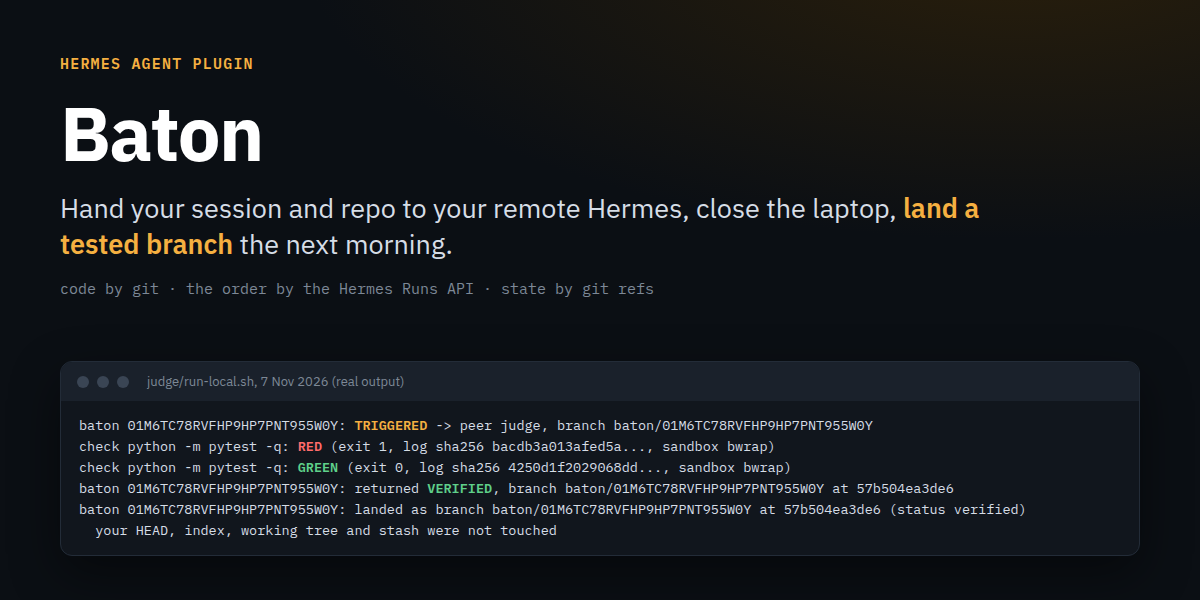
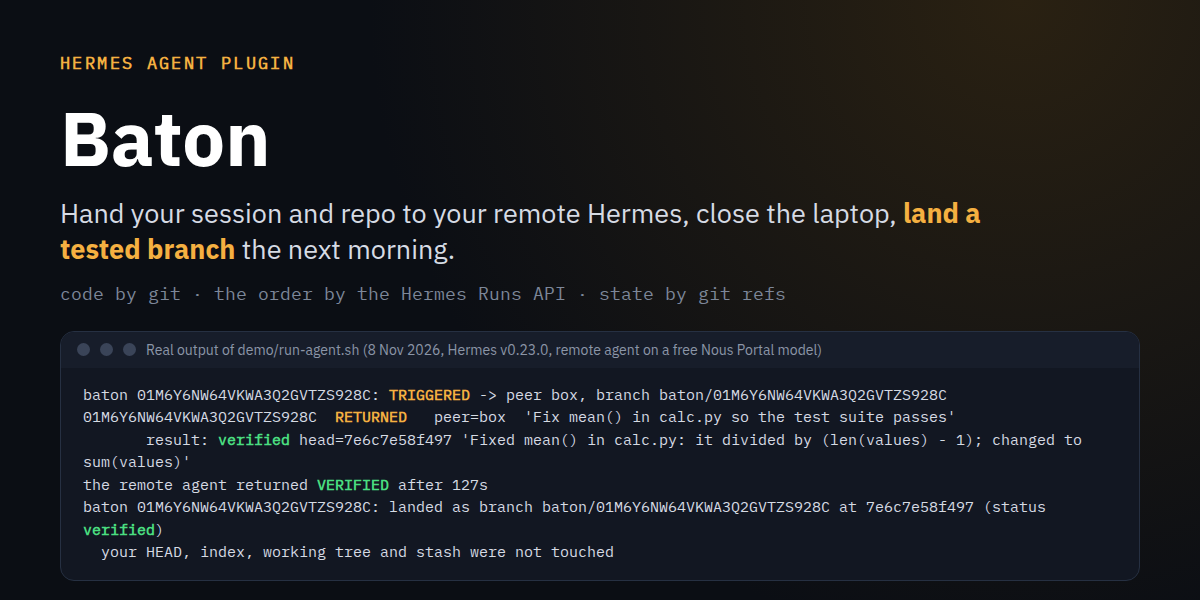
Docs: images from a real remote agent run, tool names only in the demo output
- Banner and screenshots rendered from demo/run-agent.sh output (8 Nov 2026): the remote agent
  received, fixed, checked and returned VERIFIED in 127 s; lines copied from the log
- The demo prints the agent's tool names without the export's timestamps
- README describes where the images come from

diff --git a/README.md b/README.md
@@ -117,11 +117,12 @@ What it does, all under `demo/.work/`:
   repo before and after (must be identical), stops the gateway with SIGTERM and checks the port is
   closed.
 
-Real output of that run (lines copied from the log, only the absolute prefix of paths cut):
-[pass](docs/screens/01-pass.png), [remote check](docs/screens/02-remote-check.png),
+Real output of the same scenario with a real remote agent doing step 5 (`demo/run-agent.sh`, 8 Nov 2026;
+lines copied from the log, absolute paths shortened):
+[pass](docs/screens/01-pass.png), [remote agent](docs/screens/02-remote-check.png),
 [land](docs/screens/03-land.png).
 
-![remote: red check, fix, green check, returned verified; a non-allowlisted check refused](docs/screens/02-remote-check.png)
+![remote: a real agent receives, fixes, checks and returns VERIFIED; a non-allowlisted check is refused](docs/screens/02-remote-check.png)
 
 Measured on the author's machine (Linux, 8 Nov 2026, two runs): the first plugin enable in a fresh home took
 409 s and 631 s, the second home 56 to 86 s, the API server extra 103 to 390 s, and the baton steps
